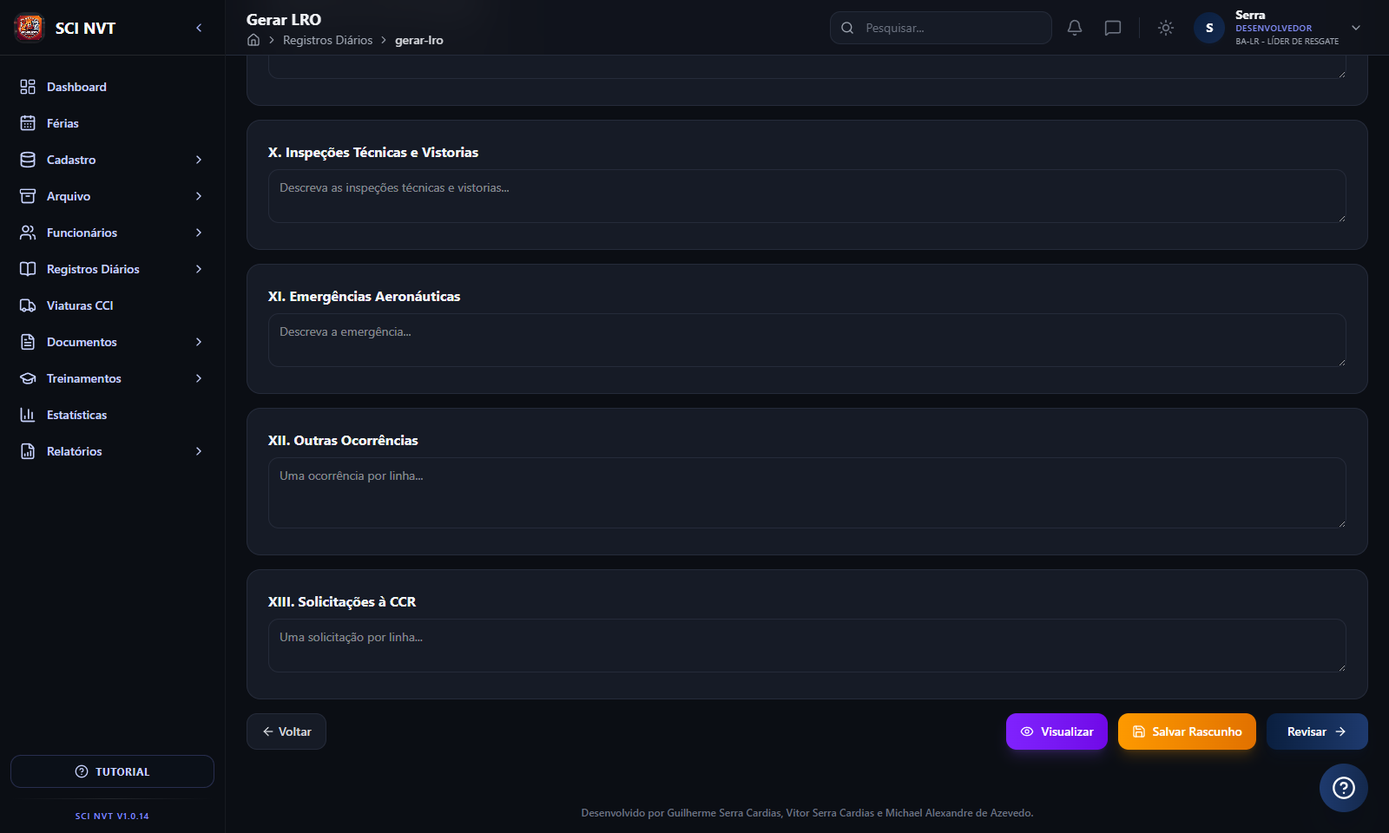
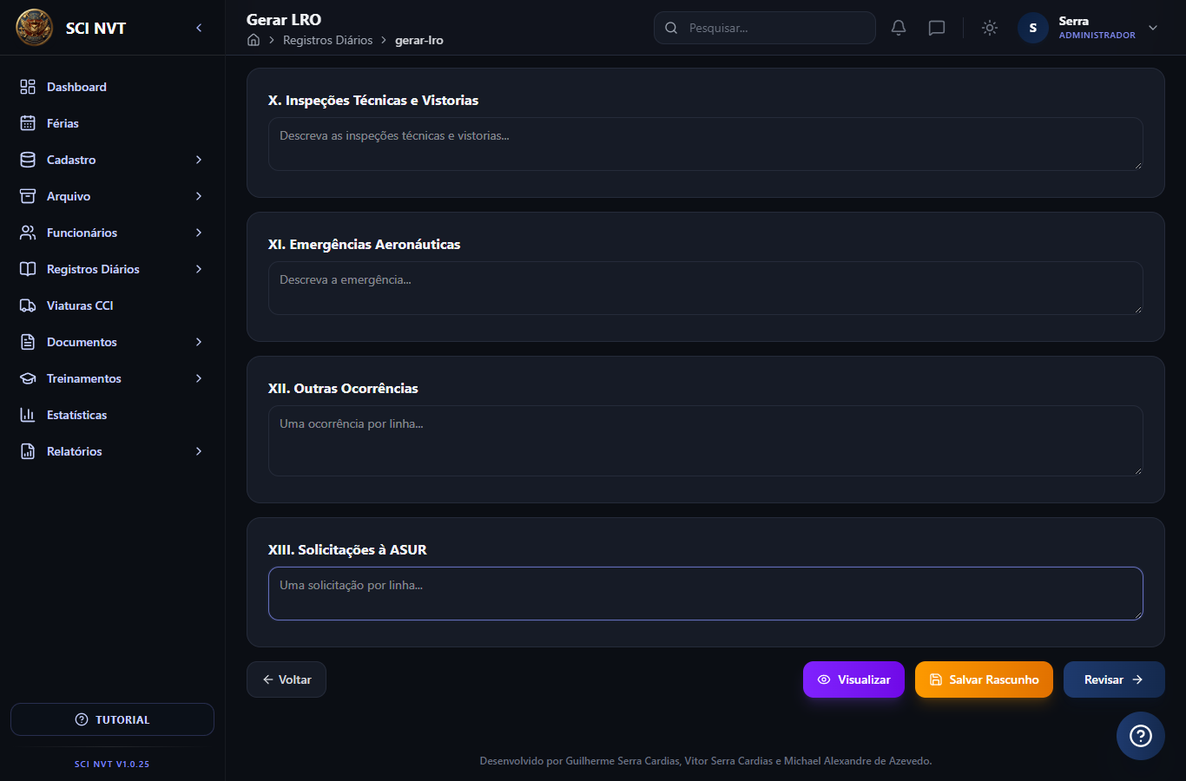
Atualiza empresa aeroportuária para ASUR

diff --git a/frontend/src/pages/Tutorial/DiaADia.tsx b/frontend/src/pages/Tutorial/DiaADia.tsx
@@ -54,7 +54,7 @@ const WORKFLOW_NODES = [
   { id: 'diaria', label: 'Escala Diária', sub: 'Plantão real, extras, trocas e PTR', icon: ClipboardCheck, x: 36, y: 10, w: 28, h: 18 },
   { id: 'lro-ocorrencias', label: 'LRO/Ocorrências', sub: 'Fatos do dia a dia do plantão', icon: FileText, x: 69, y: 10, w: 28, h: 18 },
   { id: 'bona-rea', label: 'BONA/REA', sub: 'Boletins formais quando houver', icon: ShieldAlert, x: 3, y: 40, w: 28, h: 18 },
-  { id: 'solicitacoes', label: 'Solicitações', sub: 'Demandas feitas à Motiva', icon: ClipboardList, x: 36, y: 40, w: 28, h: 18 },
+  { id: 'solicitacoes', label: 'Solicitações', sub: 'Demandas feitas à ASUR', icon: ClipboardList, x: 36, y: 40, w: 28, h: 18 },
   { id: 'inspecoes', label: 'Inspeções', sub: 'Inspeções técnicas solicitadas ou necessárias', icon: ClipboardCheck, x: 69, y: 40, w: 28, h: 18 },
   { id: 'ptrba', label: 'PTR-BA', sub: 'Instrução do dia para ir ao LRO', icon: Radio, x: 3, y: 70, w: 28, h: 18 },
   { id: 'gerar-lro', label: 'Gerar LRO', sub: 'Revisão final e arquivo para Autentique', icon: FileSignature, x: 36, y: 70, w: 28, h: 18 },
@@ -117,21 +117,21 @@ const TUTORIAL_STEPS: TutorialStep[] = [
   {
     id: 5,
     title: 'Registrar Solicitações',
-    eyebrow: 'Demandas feitas à Motiva',
-    body: 'Preencha Solicitações quando houver pedidos feitos à Motiva durante o plantão.',
+    eyebrow: 'Demandas feitas à ASUR',
+    body: 'Preencha Solicitações quando houver pedidos feitos à ASUR durante o plantão.',
     detail: 'Esses pedidos também alimentam o LRO. Use esse módulo para deixar registrada a solicitação, o motivo, o responsável e o andamento.',
     icon: ClipboardList,
     actions: [{ label: 'Abrir Solicitações', path: '/registros-diarios/solicitacoes' }],
     activeNodes: ['solicitacoes'],
     cursor: { x: 59, y: 50 },
     spotlight: { x: 34, y: 38, w: 32, h: 22 },
-    checklist: ['Abrir Solicitações', 'Clicar em Novo', 'Preencher o pedido à Motiva', 'Salvar para ir ao LRO'],
+    checklist: ['Abrir Solicitações', 'Clicar em Novo', 'Preencher o pedido à ASUR', 'Salvar para ir ao LRO'],
   },
   {
     id: 6,
     title: 'Registrar Inspeções',
     eyebrow: 'Inspeções técnicas',
-    body: 'Preencha Inspeções quando a Motiva solicitar uma inspeção técnica ou quando a equipe fizer uma verificação operacional.',
+    body: 'Preencha Inspeções quando a ASUR solicitar uma inspeção técnica ou quando a equipe fizer uma verificação operacional.',
     detail: 'Informe local, motivo, solicitante, horário e resultado. Quando o registro estiver completo, ele segue para a composição do LRO.',
     icon: ClipboardCheck,
     actions: [{ label: 'Abrir Inspeções', path: '/registros-diarios/inspecoes' }],
@@ -145,7 +145,7 @@ const TUTORIAL_STEPS: TutorialStep[] = [
     title: 'Preencher o PTR-BA',
     eyebrow: 'Instrução que seguirá para o LRO',
     body: 'No PTR-BA, escolha a equipe para o sistema puxar o efetivo real daquele dia.',
-    detail: 'Ele já considera férias, trocas e substituições. Se houver convidado da Motiva, inclua manualmente em APOC. Os assuntos vêm da escala diária, e é preciso preencher início, término, duas evidências horizontais, descrição e observações quando houver.',
+    detail: 'Ele já considera férias, trocas e substituições. Se houver convidado da ASUR, inclua manualmente em APOC. Os assuntos vêm da escala diária, e é preciso preencher início, término, duas evidências horizontais, descrição e observações quando houver.',
     icon: Radio,
     actions: [{ label: 'Abrir PTR-BA', path: '/registros-diarios/ptr-ba-completo' }],
     activeNodes: ['ptrba'],
@@ -525,13 +525,13 @@ const ROUTINE_VIDEO_SCENES: RoutineVideoScene[] = [
     menuId: 'solicitacoes',
     screenshot: '/assets/tutorial-dia-a-dia/solicitacoes-lista.png',
     action: 'Nova Solicitação',
-    narration: 'As demandas feitas à Motiva entram em Solicitações. A pessoa abre a tela e clica em Nova Solicitação.',
+    narration: 'As demandas feitas à ASUR entram em Solicitações. A pessoa abre a tela e clica em Nova Solicitação.',
     detail: 'Esse registro guarda data, horário, equipe, tipo de solicitação e descrição do pedido para depois aparecer no LRO.',
     icon: ClipboardList,
     fields: [
       { label: 'Tela', value: 'Solicitações', tone: 'manual' },
       { label: 'Botão', value: 'Nova Solicitação', tone: 'manual' },
-      { label: 'Uso', value: 'pedido ou demanda para a Motiva', tone: 'manual' },
+      { label: 'Uso', value: 'pedido ou demanda para a ASUR', tone: 'manual' },
       { label: 'Destino', value: 'entra no LRO automaticamente', tone: 'auto' },
     ],
     cards: [
@@ -550,12 +550,12 @@ const ROUTINE_VIDEO_SCENES: RoutineVideoScene[] = [
     menuId: 'solicitacoes',
     screenshot: '/assets/tutorial-dia-a-dia/solicitacoes-criando.png',
     action: 'Nova Solicitação',
-    narration: 'As solicitações feitas à Motiva são abertas em Solicitações e preenchidas no momento em que acontecerem.',
+    narration: 'As solicitações feitas à ASUR são abertas em Solicitações e preenchidas no momento em que acontecerem.',
     detail: 'Esses registros mostram o que foi solicitado, por quem, em qual horário e qual foi o encaminhamento.',
     icon: ClipboardList,
     fields: [
       { label: 'Solicitante', value: 'Equipe Delta', tone: 'manual' },
-      { label: 'Destino', value: 'Motiva', tone: 'manual' },
+      { label: 'Destino', value: 'ASUR', tone: 'manual' },
       { label: 'Horário', value: '14:20', tone: 'manual' },
       { label: 'Pedido', value: 'Apoio para acesso controlado à área operacional', tone: 'manual' },
       { label: 'Destino no fluxo', value: 'vai automaticamente para o LRO', tone: 'auto' },
@@ -576,7 +576,7 @@ const ROUTINE_VIDEO_SCENES: RoutineVideoScene[] = [
     menuId: 'inspecoes',
     screenshot: '/assets/tutorial-dia-a-dia/inspecoes-lista.png',
     action: 'Nova Inspeção',
-    narration: 'Quando a Motiva solicita uma inspeção, ou quando a equipe faz uma verificação técnica, a pessoa entra em Inspeções.',
+    narration: 'Quando a ASUR solicita uma inspeção, ou quando a equipe faz uma verificação técnica, a pessoa entra em Inspeções.',
     detail: 'O botão Nova Inspeção abre o formulário para registrar local, motivo, horário, solicitante e resultado.',
     icon: ClipboardCheck,
     fields: [
@@ -601,18 +601,18 @@ const ROUTINE_VIDEO_SCENES: RoutineVideoScene[] = [
     menuId: 'inspecoes',
     screenshot: '/assets/tutorial-dia-a-dia/inspecoes-criando.png',
     action: 'Nova Inspeção',
-    narration: 'As inspeções técnicas solicitadas pela Motiva, ou feitas pela própria equipe, entram em Inspeções.',
+    narration: 'As inspeções técnicas solicitadas pela ASUR, ou feitas pela própria equipe, entram em Inspeções.',
     detail: 'Preencha local, motivo, horário, solicitante e resultado da inspeção para que o LRO receba a informação completa.',
     icon: ClipboardCheck,
     fields: [
       { label: 'Local', value: 'Área operacional / SCI', tone: 'manual' },
-      { label: 'Solicitante', value: 'Motiva', tone: 'manual' },
+      { label: 'Solicitante', value: 'ASUR', tone: 'manual' },
       { label: 'Tipo', value: 'Inspeção técnica', tone: 'manual' },
       { label: 'Resultado', value: 'Sem alteração encontrada', tone: 'manual' },
       { label: 'Destino no fluxo', value: 'vai automaticamente para o LRO', tone: 'auto' },
     ],
     cards: [
-      { label: 'Quando usar', value: 'solicitação da Motiva ou verificação técnica da equipe', tone: 'manual' },
+      { label: 'Quando usar', value: 'solicitação da ASUR ou verificação técnica da equipe', tone: 'manual' },
       { label: 'Importante', value: 'registrar a conclusão da inspeção', tone: 'alert' },
     ],
     timeline: ['Sidebar', 'Inspeções', 'Novo', 'Resultado', 'Salvar'],
@@ -638,7 +638,7 @@ const ROUTINE_VIDEO_SCENES: RoutineVideoScene[] = [
     ],
     cards: [
       { label: 'Puxa automaticamente', value: 'efetivo real, trocas e substituições', tone: 'auto' },
-      { label: 'APOC convidado', value: 'entra manualmente quando houver convidado da Motiva', tone: 'alert' },
+      { label: 'APOC convidado', value: 'entra manualmente quando houver convidado da ASUR', tone: 'alert' },
     ],
     timeline: ['PTR-BA', 'Novo PTR-BA', 'Equipe e data'],
     cursorStart: { x: 7.4, y: 40.5 },
@@ -685,7 +685,7 @@ const ROUTINE_VIDEO_SCENES: RoutineVideoScene[] = [
       { label: 'Data', value: '03/09/2026', tone: 'manual' },
       { label: 'Participantes', value: 'efetivo real puxado automaticamente', tone: 'auto' },
       { label: 'Trocas e férias', value: 'substituições aplicadas nos lugares certos', tone: 'auto' },
-      { label: 'Convidado Motiva', value: 'incluir manualmente em APOC quando houver', tone: 'manual' },
+      { label: 'Convidado ASUR', value: 'incluir manualmente em APOC quando houver', tone: 'manual' },
     ],
     cards: [
       { label: 'APOC convidado', value: 'selecionar APOC cadastrado e adicionar ao PTR-BA', tone: 'manual' },

diff --git a/frontend/src/pages/Certificacoes/Certificacoes.tsx b/frontend/src/pages/Certificacoes/Certificacoes.tsx
@@ -277,7 +277,7 @@ function CursoFormInline({ funcionarioId, funcionarioNome, onSave, onCancel }: {
   const input = 'w-full rounded-xl border border-graphite-300 bg-white px-3 py-2 text-sm text-graphite-900 transition-all hover:border-graphite-400 focus:border-aviation-500 focus:ring-2 focus:ring-aviation-500/10 dark:border-border-dark dark:bg-surface-card dark:text-graphite-100';
   const label = 'block mb-1 text-xs font-semibold uppercase tracking-wider text-graphite-500 dark:text-graphite-400';
   const cursosInternos = CURSO_OPTIONS.filter(c => c.categoria === 'interno');
-  const cursosMotiva = CURSO_OPTIONS.filter(c => c.categoria === 'motiva');
+  const cursosAsur = CURSO_OPTIONS.filter(c => c.categoria === 'asur');
 
   const cursosSemValidade = ['chefeEquipe', 'motoristaCCI'];
 
@@ -302,8 +302,8 @@ function CursoFormInline({ funcionarioId, funcionarioNome, onSave, onCancel }: {
               <optgroup label="Cursos Internos">
                 {cursosInternos.map(c => <option key={c.tipo} value={c.tipo}>{c.nome}</option>)}
               </optgroup>
-              <optgroup label="Cursos Motiva">
-                {cursosMotiva.map(c => <option key={c.tipo} value={c.tipo}>{c.nome}</option>)}
+              <optgroup label="Cursos ASUR">
+                {cursosAsur.map(c => <option key={c.tipo} value={c.tipo}>{c.nome}</option>)}
               </optgroup>
             </select>
           </div>
@@ -366,9 +366,9 @@ function FuncionarioCard({
 }) {
   const [expanded, setExpanded] = useState(false);
   const cursosInternos = CURSO_OPTIONS.filter(c => c.categoria === 'interno');
-  const cursosMotiva = CURSO_OPTIONS.filter(c => c.categoria === 'motiva');
+  const cursosAsur = CURSO_OPTIONS.filter(c => c.categoria === 'asur');
   const certInternos = certCurso.filter(c => cursosInternos.some(ci => ci.tipo === c.cursoTipo));
-  const certMotiva = certCurso.filter(c => cursosMotiva.some(cm => cm.tipo === c.cursoTipo));
+  const certAsur = certCurso.filter(c => cursosAsur.some(cm => cm.tipo === c.cursoTipo));
 
   return (
     <div className="rounded-2xl border border-graphite-200 bg-white shadow-sm transition-all hover:shadow-md dark:border-border-dark dark:bg-surface-card">
@@ -389,7 +389,7 @@ function FuncionarioCard({
             <GraduationCap className="h-3 w-3" /> Cursos {certInternos.length}
           </span>
           <span className="flex items-center gap-1 rounded-full bg-teal-50 px-2.5 py-0.5 text-[10px] font-bold text-teal-700 dark:bg-teal-900/30 dark:text-teal-300">
-            <Award className="h-3 w-3" /> Motiva {certMotiva.length}
+            <Award className="h-3 w-3" /> ASUR {certAsur.length}
           </span>
           {expanded ? <ChevronUp className="h-4 w-4 text-graphite-400" /> : <ChevronDown className="h-4 w-4 text-graphite-400" />}
         </div>
@@ -579,11 +579,11 @@ function FuncionarioCard({
             )}
           </div>
 
-          {/* ── Cursos Anexados Motiva ── */}
+          {/* ── Cursos Anexados ASUR ── */}
           <div className="mb-4">
             <div className="mb-2 flex items-center justify-between">
               <h4 className="flex items-center gap-1.5 text-xs font-semibold uppercase tracking-wider text-teal-500 dark:text-teal-400">
-                <GraduationCap className="h-3.5 w-3.5" /> Cursos Motiva
+                <GraduationCap className="h-3.5 w-3.5" /> Cursos ASUR
               </h4>
               {canManage && (
                 <button onClick={() => onAddCurso(funcionario.id, funcionario.nomeCompleto)}
@@ -592,11 +592,11 @@ function FuncionarioCard({
                 </button>
               )}
             </div>
-            {certMotiva.length === 0 ? (
-              <p className="text-center text-xs text-graphite-400 py-3">Nenhum curso Motiva anexado.</p>
+            {certAsur.length === 0 ? (
+              <p className="text-center text-xs text-graphite-400 py-3">Nenhum curso ASUR anexado.</p>
             ) : (
               <div className="grid grid-cols-1 gap-2 sm:grid-cols-2 lg:grid-cols-3">
-                {certMotiva.map(cert => {
+                {certAsur.map(cert => {
                   const status = cert.semValidade ? null : getStatusValidade(cert.dataValidade);
                   return (
                     <button key={cert.id} onClick={() => onViewArquivo(cert.arquivo, cert.cursoNome)}

diff --git a/frontend/src/pages/APOC/APOCs.tsx b/frontend/src/pages/APOC/APOCs.tsx
@@ -16,12 +16,12 @@ const APOCS_TOUR_STEPS = [
   {
     selector: 'main h1',
     title: 'Cadastro de APOC',
-    body: 'Esta página reúne o pessoal do Centro de Operações Aeroportuárias. No sistema, esses usuários aparecem como equipe MOTIVA e função APOC/MOTIVA.',
+    body: 'Esta página reúne o pessoal do Centro de Operações Aeroportuárias. No sistema, esses usuários aparecem como equipe ASUR, com função APOC ou Supervisor.',
     detail: 'Manter nome, e-mail, equipe e função corretos ajuda na identificação de responsáveis, documentos e vínculos com equipamentos quando o cadastro for usado em outras telas.',
   },
   {
     selector: 'main p',
-    title: 'Aviso da função MOTIVA',
+    title: 'Pessoal da ASUR',
     body: 'Este aviso lembra que os registros desta tela representam o pessoal do Centro de Operações Aeroportuárias.',
     detail: 'Diferente dos bombeiros das equipes Alfa, Bravo, Charlie e Delta, o APOC não entra na escala operacional diária como BA, mas pode aparecer como pessoa vinculada ou referência administrativa.',
   },
@@ -144,7 +144,7 @@ export function APOCs() {
 
       <div className="mb-4 rounded-xl border border-aviation-200/50 bg-aviation-50/50 px-4 py-3 dark:border-aviation-700/30 dark:bg-aviation-900/20">
         <p className="text-sm text-aviation-700 dark:text-aviation-300">
-          Pessoal do <strong>Centro de Operações Aeroportuárias</strong> — todos possuem a função <strong>MOTIVA</strong>.
+          Pessoal do <strong>Centro de Operações Aeroportuárias</strong> — equipe <strong>ASUR</strong>, com funções APOC ou Supervisor.
         </p>
       </div>
 
@@ -201,7 +201,7 @@ export function APOCs() {
                   <td className="px-4 py-3 text-graphite-700 dark:text-graphite-300">{a.email}</td>
                   <td className="px-4 py-3">
                     <span className="inline-flex rounded-full bg-aviation-50 px-2.5 py-0.5 text-xs font-medium text-aviation-700 dark:bg-aviation-900/30 dark:text-aviation-300">
-                      {a.equipe || 'MOTIVA'}
+                      {a.equipe || 'ASUR'}
                     </span>
                   </td>
                   <td className="px-4 py-3">

diff --git a/frontend/MODELO-LRO.html b/frontend/MODELO-LRO.html
@@ -88,7 +88,7 @@
   <table class="mb" style="border:1px solid #000; border-collapse:separate; border-spacing:0;">
     <tr><td style="border:none; border-bottom:1px solid #000; font-weight:bold; font-size:11px; background:#d4d4d4; text-align:center; padding:2px 3px;">IV. SITUAÇÃO OPERACIONAL DA CENTRAL FAÍSCA, EQUIPAMENTOS DE COMUNICAÇÃO E ALARME:</td></tr>
     <tr><td style="border:none; border-bottom:1px solid #000; padding:2px 8px; font-size:11px;"><span class="b">3.1 CENTRAL FAÍSCA:</span></td></tr>
-    <tr><td style="border:none; border-bottom:1px solid #000; padding:2px 8px; font-size:11px;">FISCAL GABRIEL (MOTIVA) ESTEVE NA SCI, PARTICIPANDO DO NOSSO PTR</td></tr>
+    <tr><td style="border:none; border-bottom:1px solid #000; padding:2px 8px; font-size:11px;">FISCAL GABRIEL (ASUR) ESTEVE NA SCI, PARTICIPANDO DO NOSSO PTR</td></tr>
     <tr><td style="border:none; border-bottom:1px solid #000; padding:2px 8px; font-size:11px;"><span class="b">3.2 RÁDIOS, HOTLINE, SISTEMA DE ALARME:</span></td></tr>
     <tr><td style="border:none; padding:2px 8px; font-size:11px;">REALIZADO TESTE DO SAE E RÁDIO, COM TWR, VEÍCULOS OPERACIONAIS</td></tr>
   </table>
@@ -149,7 +149,7 @@
 
   <!-- XIII -->
   <table class="mb" style="border:1px solid #000; border-collapse:separate; border-spacing:0;">
-    <tr><td colspan="6" style="border:none; border-bottom:1px solid #000; font-weight:bold; font-size:11px; background:#d4d4d4; text-align:center; padding:2px 3px;">XIII. SOLICITAÇÕES EFETUADAS A CCR</td></tr>
+    <tr><td colspan="6" style="border:none; border-bottom:1px solid #000; font-weight:bold; font-size:11px; background:#d4d4d4; text-align:center; padding:2px 3px;">XIII. SOLICITAÇÕES EFETUADAS A ASUR</td></tr>
     <tr><td style="border:none; padding:2px 8px; font-size:11px;">Solicitado reparo no portão de acesso ao pátio operacional.</td></tr>
     <tr><td style="border:none; padding:2px 8px; font-size:11px;">Solicitado reposição de luvas de proteção para o CCI 2.</td></tr>
   </table>

diff --git a/frontend/projetonovo.html b/frontend/projetonovo.html
@@ -88,7 +88,7 @@
   <table class="mb" style="border:1px solid #000; border-collapse:separate; border-spacing:0;">
     <tr><td style="border:none; border-bottom:1px solid #000; font-weight:bold; font-size:11px; background:#d4d4d4; text-align:center; padding:2px 3px;">IV. SITUAÇÃO OPERACIONAL DA CENTRAL FAÍSCA, EQUIPAMENTOS DE COMUNICAÇÃO E ALARME:</td></tr>
     <tr><td style="border:none; border-bottom:1px solid #000; padding:2px 8px; font-size:11px;"><span class="b">3.1 CENTRAL FAÍSCA:</span></td></tr>
-    <tr><td style="border:none; border-bottom:1px solid #000; padding:2px 8px; font-size:11px;">FISCAL GABRIEL (MOTIVA) ESTEVE NA SCI, PARTICIPANDO DO NOSSO PTR</td></tr>
+    <tr><td style="border:none; border-bottom:1px solid #000; padding:2px 8px; font-size:11px;">FISCAL GABRIEL (ASUR) ESTEVE NA SCI, PARTICIPANDO DO NOSSO PTR</td></tr>
     <tr><td style="border:none; border-bottom:1px solid #000; padding:2px 8px; font-size:11px;"><span class="b">3.2 RÁDIOS, HOTLINE, SISTEMA DE ALARME:</span></td></tr>
     <tr><td style="border:none; padding:2px 8px; font-size:11px;">REALIZADO TESTE DO SAE E RÁDIO, COM TWR, VEÍCULOS OPERACIONAIS</td></tr>
   </table>
@@ -149,7 +149,7 @@
 
   <!-- XIII -->
   <table class="mb" style="border:1px solid #000; border-collapse:separate; border-spacing:0;">
-    <tr><td colspan="6" style="border:none; border-bottom:1px solid #000; font-weight:bold; font-size:11px; background:#d4d4d4; text-align:center; padding:2px 3px;">XIII. SOLICITAÇÕES EFETUADAS A CCR</td></tr>
+    <tr><td colspan="6" style="border:none; border-bottom:1px solid #000; font-weight:bold; font-size:11px; background:#d4d4d4; text-align:center; padding:2px 3px;">XIII. SOLICITAÇÕES EFETUADAS A ASUR</td></tr>
     <tr><td style="border:none; padding:2px 8px; font-size:11px;">Solicitado reparo no portão de acesso ao pátio operacional.</td></tr>
     <tr><td style="border:none; padding:2px 8px; font-size:11px;">Solicitado reposição de luvas de proteção para o CCI 2.</td></tr>
   </table>

diff --git a/frontend/src/pages/GerarLRO/GerarLRO.tsx b/frontend/src/pages/GerarLRO/GerarLRO.tsx
@@ -2551,7 +2551,7 @@ export function GerarLRO() {
                       {lroDetailCard('Ocorrências/BONA', `${countDraftTextLines(dd.ocorrenciasNA)} lançamento(s)`)}
                       {lroDetailCard('REA', `${countDraftTextLines(dd.emergenciaXI)} lançamento(s)`)}
                       {lroDetailCard('Inspeções', `${countDraftTextLines(dd.inspecoes)} lançamento(s)`)}
-                      {lroDetailCard('Solicitações CCR', `${countDraftTextLines(dd.solicitacoes)} lançamento(s)`)}
+                      {lroDetailCard('Solicitações ASUR', `${countDraftTextLines(dd.solicitacoes)} lançamento(s)`)}
                     </div>
 
                     <div className="grid grid-cols-1 gap-3 md:grid-cols-3">
@@ -2576,7 +2576,7 @@ export function GerarLRO() {
                       {lroTextCard('REA', dd.emergenciaXI)}
                       {lroTextCard('Inspeções', dd.inspecoes)}
                       {lroTextCard('Outras Ocorrências', dd.ocorrenciasXII)}
-                      {lroTextCard('Solicitações CCR', dd.solicitacoes)}
+                      {lroTextCard('Solicitações ASUR', dd.solicitacoes)}
                       {lroTextCard('Trocas Manuais', formatarTrocasDraft(dd._trocasManuais))}
                       {lroTextCard('Substituições', formatarSubstituicoesDraft(dd._substituicoesDetectadas))}
                     </div>
@@ -3641,7 +3641,7 @@ export function GerarLRO() {
 
           {/* XIII */}
           <div className="rounded-2xl border border-graphite-200 bg-white p-6 dark:border-border-dark dark:bg-surface-card">
-            <h3 className="mb-2 font-bold text-graphite-900 dark:text-graphite-100">XIII. Solicitações à CCR</h3>
+            <h3 className="mb-2 font-bold text-graphite-900 dark:text-graphite-100">XIII. Solicitações à ASUR</h3>
             <textarea value={solicitacoesCCR} onChange={e => setSolicitacoesCCR(e.target.value)} rows={2} placeholder="Uma solicitação por linha..." className={inputClass + ' resize-y'} />
           </div>
 

diff --git a/frontend/src/types/certificacaoCurso.ts b/frontend/src/types/certificacaoCurso.ts
@@ -18,11 +18,12 @@ export const CURSO_OPTIONS = [
   { tipo: 'chefeEquipe', nome: 'Chefe de Equipe', categoria: 'interno' as const },
   { tipo: 'motoristaCCI', nome: 'Motorista/Condutor de CCI', categoria: 'interno' as const },
   { tipo: 'cva', nome: 'CVA - Curso de Veículo de Emergência', categoria: 'interno' as const },
-  { tipo: 'apam', nome: 'APAM - Acesso e Permanência na Área de Manobras', categoria: 'motiva' as const },
-  { tipo: 'avsec', nome: 'AVSEC - Conscientização com AVSEC', categoria: 'motiva' as const },
-  { tipo: 'compliance', nome: 'COMPLIANCE - Bate Papo com Terceiros', categoria: 'motiva' as const },
-  { tipo: 'cvaMotiva', nome: 'CVA - Condução de Veículos na Área Operacional', categoria: 'motiva' as const },
-  { tipo: 'integracao', nome: 'INTEGRAÇÃO - Saúde e Segurança do Trabalho para Terceiros', categoria: 'motiva' as const },
-  { tipo: 'riscoFauna', nome: 'RISCO FAUNA - Gerenciamento do Risco da Fauna', categoria: 'motiva' as const },
-  { tipo: 'sgso', nome: 'SGSO - Segurança Operacional Geral e Básico', categoria: 'motiva' as const },
+  { tipo: 'apam', nome: 'APAM - Acesso e Permanência na Área de Manobras', categoria: 'asur' as const },
+  { tipo: 'avsec', nome: 'AVSEC - Conscientização com AVSEC', categoria: 'asur' as const },
+  { tipo: 'compliance', nome: 'COMPLIANCE - Bate Papo com Terceiros', categoria: 'asur' as const },
+  // Identificador persistido: manter compatibilidade com os certificados existentes.
+  { tipo: 'cvaMotiva', nome: 'CVA - Condução de Veículos na Área Operacional', categoria: 'asur' as const },
+  { tipo: 'integracao', nome: 'INTEGRAÇÃO - Saúde e Segurança do Trabalho para Terceiros', categoria: 'asur' as const },
+  { tipo: 'riscoFauna', nome: 'RISCO FAUNA - Gerenciamento do Risco da Fauna', categoria: 'asur' as const },
+  { tipo: 'sgso', nome: 'SGSO - Segurança Operacional Geral e Básico', categoria: 'asur' as const },
 ] as const;

diff --git a/frontend/src/pages/PreviewLRO/PreviewLRO.tsx b/frontend/src/pages/PreviewLRO/PreviewLRO.tsx
@@ -50,7 +50,7 @@ const SAMPLE_DATA: Record<string, unknown> = {
     { viatura: 'CCI 320', prefixo: 'VT-02', kmIni: '8900', kmFim: '8975', combIni: 'Cheio', combFim: '3/4', situacao: 'EM LINHA' },
     { viatura: 'CCI 333', prefixo: 'VT-03', kmIni: '5400', kmFim: '5400', combIni: '1/2', combFim: '1/2', situacao: 'RESERVA' },
   ],
-  centralFaisca: 'FISCAL GABRIEL (MOTIVA) ESTEVE NA SCI, PARTICIPANDO DO NOSSO PTR',
+  centralFaisca: 'FISCAL GABRIEL (ASUR) ESTEVE NA SCI, PARTICIPANDO DO NOSSO PTR',
   radioComunicacao: 'REALIZADO TESTE DO SAE E RÁDIO, COM TWR, VEÍCULOS OPERACIONAIS',
   tpStatus: '<span style="display:inline-block; width:9px; height:9px; border:1px solid black; text-align:center; line-height:8px; font-size:7px; vertical-align:baseline; position:relative; top:-2px;"></span> ABAIXO &nbsp;&nbsp;&nbsp;&nbsp;&nbsp;&nbsp;&nbsp;&nbsp;&nbsp;&nbsp;&nbsp;&nbsp;&nbsp;&nbsp;&nbsp;&nbsp;&nbsp;&nbsp;&nbsp;&nbsp;&nbsp;&nbsp; <span style="display:inline-block; width:9px; height:9px; border:1px solid black; text-align:center; line-height:8px; font-size:7px; vertical-align:baseline; position:relative; top:1px;"></span> SEM ALTERAÇÕES',
   tpTexto: 'Conferido TP da viatura CCI 319 - OK. EPI do CCI 2 com 1 par de luvas vencido, substituído.',

diff --git a/frontend/src/data/checklistTotal.ts b/frontend/src/data/checklistTotal.ts
@@ -26,7 +26,7 @@ export const CHECKLIST_TOTAL_ROWS = [
   { secao: 'DOCUMENTOS E PUBLICAÇÕES', quantidade: '1', item: 'Mapa de grade externo' },
   { secao: 'DOCUMENTOS E PUBLICAÇÕES', quantidade: '10', item: 'Fluxogramas de acionamento' },
   { secao: 'DOCUMENTOS E PUBLICAÇÕES', quantidade: '1', item: 'Prancheta com fichas de Emergências Aeronáuticas' },
-  { secao: 'DOCUMENTOS E PUBLICAÇÕES', quantidade: '1', item: 'Lista de Ramais CCR NVT' },
+  { secao: 'DOCUMENTOS E PUBLICAÇÕES', quantidade: '1', item: 'Lista de Ramais ASUR NVT' },
   { secao: 'DOCUMENTOS E PUBLICAÇÕES', quantidade: '5', item: 'Check-list das Viaturas e Equipamentos' },
   { secao: 'OUTROS EQUIPAMENTOS', quantidade: '1', item: 'Central do sistema de detecção e alarme de incêndio' },
   { secao: 'OUTROS EQUIPAMENTOS', quantidade: '1', item: 'Fonte de alimentação do sistema de incêndio' },

diff --git a/frontend/src/services/apocService.ts b/frontend/src/services/apocService.ts
@@ -1,4 +1,5 @@
 import type { APOC } from '../types/apoc';
+import { EQUIPE_APOC } from '../types/apoc';
 import { supabase } from '../lib/supabase';
 
 const TABLE = 'apocs';
@@ -25,7 +26,10 @@ function rowToApoc(row: Record<string, unknown>): APOC {
     nomeGuerra: row.nome_guerra as string,
     email: row.email as string,
     funcao: row.funcao as APOC['funcao'],
-    equipe: row.equipe as string,
+    // Compatibilidade enquanto os cadastros antigos aguardam a migration ASUR.
+    equipe: ['MOTIVA', 'CCR'].includes(String(row.equipe || '').trim().toUpperCase())
+      ? EQUIPE_APOC
+      : row.equipe as string,
     createdAt: row.created_at as string,
     updatedAt: row.updated_at as string,
   };

diff --git a/frontend/src/services/checklistService.ts b/frontend/src/services/checklistService.ts
@@ -51,6 +51,14 @@ function rowToChecklist(row: Record<string, unknown>): Checklist {
   const raw = asChecklistJson(row.itens);
   const meta = raw.meta || {};
   const payload = normalizarPayload(raw);
+  // Modelos antigos continuam utilizaveis antes de aplicar a migration ASUR.
+  if (meta.equipe === 'MODELO FIXO' && meta.responsavel?.startsWith('MODELO:')) {
+    payload.linhas = payload.linhas.map(linha => (
+      ['LISTA DE RAMAIS CCR NVT', 'LISTA DE RAMAIS MOTIVA NVT'].includes(linha.item.trim().toUpperCase())
+        ? { ...linha, item: 'Lista de Ramais ASUR NVT' }
+        : linha
+    ));
+  }
   return {
     id: String(row.id || ''),
     titulo: String(row.titulo || ''),

diff --git a/frontend/src/services/lroGenerator.ts b/frontend/src/services/lroGenerator.ts
@@ -293,7 +293,7 @@ export function montarHTML(dados: Record<string, unknown>, showMarkers = false, 
 
   <!-- XIII -->
   <table class="mb" style="border:1px solid #000; border-collapse:separate; border-spacing:0;">
-    <tr><td colspan="6" style="border:none; border-bottom:1px solid #000; font-weight:bold; font-size:11px; background:#d4d4d4; text-align:center; padding:2px 3px;">XIII. SOLICITAÇÕES EFETUADAS A CCR</td></tr>
+    <tr><td colspan="6" style="border:none; border-bottom:1px solid #000; font-weight:bold; font-size:11px; background:#d4d4d4; text-align:center; padding:2px 3px;">XIII. SOLICITAÇÕES EFETUADAS A ASUR</td></tr>
     ${solicitacoesHTML}
   </table>
 
